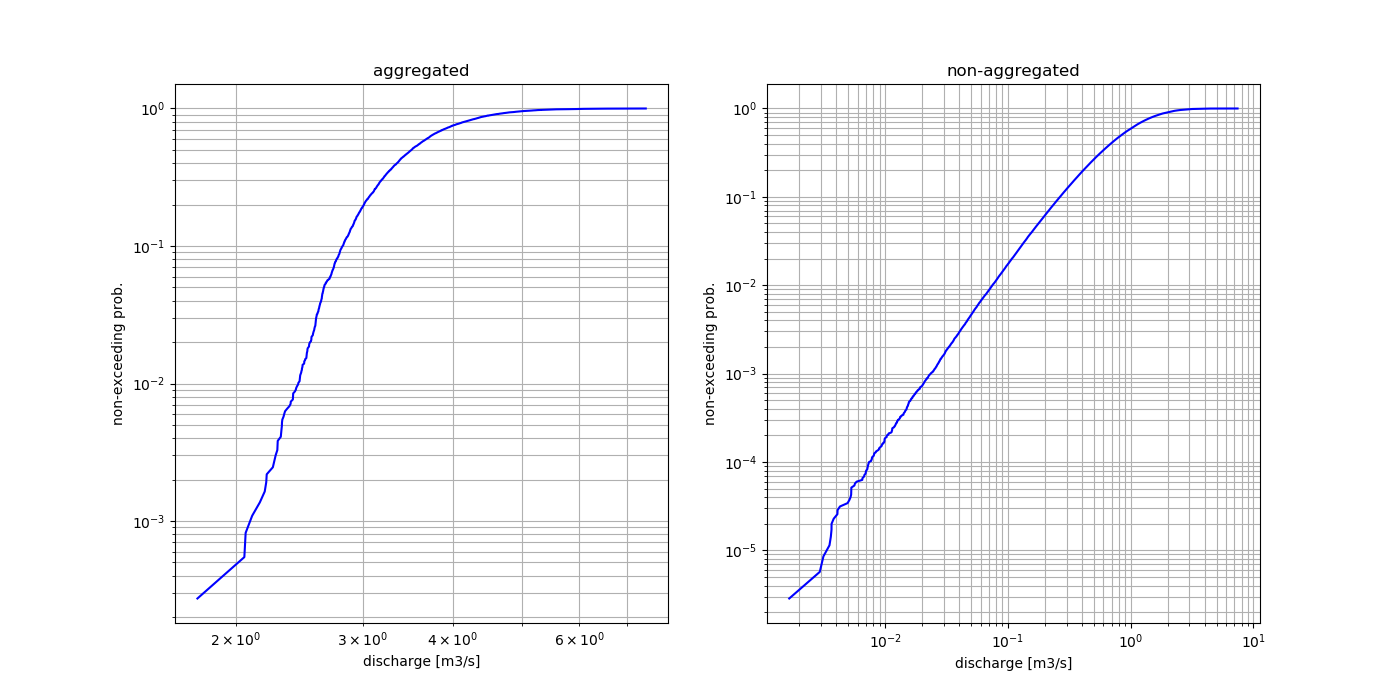
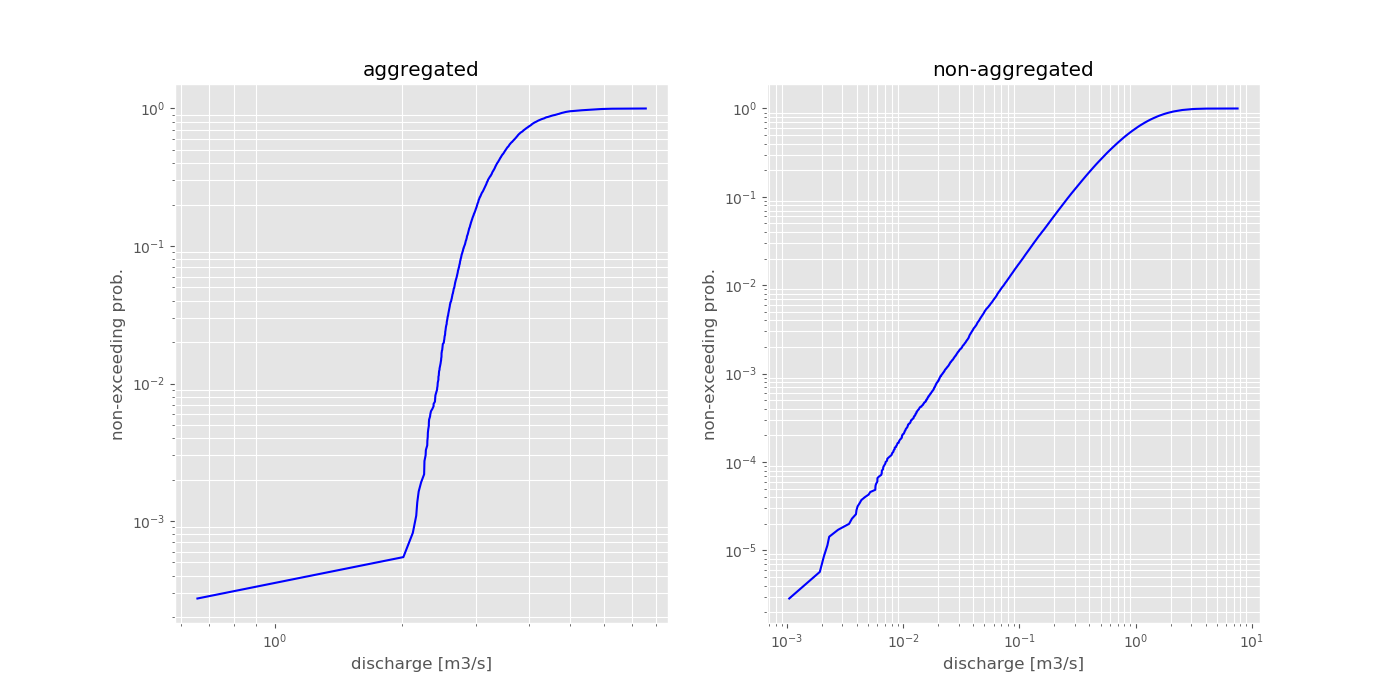
started contribution guide

diff --git a/docs/examples/discharge.rst b/docs/examples/discharge.rst
@@ -31,6 +31,9 @@ Generate the data
 
 .. ipython:: python
 
+    # use the ggplot plotting style
+    import matplotlib as mpl
+    mpl.style.use('ggplot')
     from hydrobox import toolbox
     # Step 1:
     series = toolbox.io.timeseries_from_distribution(
@@ -125,9 +128,15 @@ The workflow for the :ref:`regime function <reference_regime>` is very
 similar to the one presented in the :ref:`flow duration curve <example_fdc>`
 section.
 
-A random discharge time series will be generated and directly passed to the
-regime function. Additionally, different ways of adjusting the plot output
-will be presented.
+In this example, we will use real world data. As the hydrobox is build on top
+of numpy and pandas, we can easily use the great input tools provided by
+pandas. This example will load a discharge time series from Hofkirchen in
+Germany, gauging the Danube river. The data is provided by
+`Gewässerkundlicher Dienst Bayern`_ under a CC BY 4.0 license.
+Therefore, this example will also illustrate, how you can combine pandas and
+hydrobox to produce nice regime plots with just a few lines of code.
+
+.. _Gewässerkundlicher Dienst Bayern: https://gkd.bayern.de
 
 .. note::
 
@@ -135,23 +144,43 @@ will be presented.
     Python environment. If you are using e.g. a WPS server calling the
     tools, be sure to capture the output.
 
-Generate the data
------------------
+Load the data using pandas
+--------------------------
 
 .. ipython:: python
 
+    # some imports
     from hydrobox import toolbox
+    import pandas as pd
     # Step 1:
-    series = toolbox.io.timeseries_from_distribution(
-        distribution='gamma',
-        distribution_args=[2, 0.5],  # [location, scale]
-        start='200001010000',        # start date
-        end='201001010000',          # end date
-        freq='15min',                # temporal resolution
-        size=None,                   # set to None, for inferring
-        seed=42                      # Set a random seed
+    df = pd.read_csv('./data/discharge_hofkirchen.csv',
+        skiprows=10,            # meta data header, skip this
+        sep=';',                # the cell separator
+        decimal=',',             # german-style decimal sign
+        index_col='Datum',      # the 'date' column
+        parse_dates=[0]         # transform to DatetimeIndex
     )
+    # use only the 'Mittelwert' (mean) column
+    series = df.Mittelwert
     print(series.head())
+
+.. note::
+
+    The data was downloaded from: `Datendownload GKD`_ and is published under
+    CC BY 4.0 license. If you are not using a german OS, note that the file
+    encoding is ISO 8859-1 and you might have to remove the special german
+    signs from the header before converting to UTF-8.
+
+
+.. _Datendownload GKD: https://gkd.bayern.de/fluesse/download/index.php?thema=gkd&rubrik=fluesse&produkt=abfluss&gknr=0&msnr=10088003
+
+.. seealso::
+
+    More information on the :func:`read_csv function <pandas:pandas.read_csv>`
+     is provided in the `pandas documentation`_.
+
+
+.. _pandas documentation: https://pandas.pydata.org/pandas-docs/stable
 
 Output the regime
 -----------------
@@ -170,9 +199,6 @@ Plotting
 
 .. ipython:: python
 
-    # use the ggplot plotting style
-    import matplotlib as mpl
-    mpl.style.use('ggplot')
     @savefig examples_regime.png width=6in
     toolbox.regime(series)
 
@@ -188,6 +214,36 @@ Plotting
 
     @savefig examples_regime2.png width=6in
     toolbox.regime(series, color='#ffab7f')
+
+Using percentiles
+-----------------
+
+The plot shown above is nice, but the tool is way more powerful. Using the
+``percentiles`` keyword, we can either specify a number of percentiles or
+pass custom percentile edges.
+
+.. ipython:: python
+
+    @savefig examples_regime_percentile.png width=6in
+    toolbox.regime(series, percentiles=10);
+
+.. ipython:: python
+
+    @savefig examples_regime_percentile2.png width=6in
+    toolbox.regime(series, percentiles=[25, 75, 100], color='#223a5e');
+
+Adjusting the plot
+------------------
+
+Furthermore, the regime function can normalize the monthly aggregates to the
+overall aggregate. The function used for aggregation can also be changed. The
+following example will output monthly mean values over median values and
+normalize them to the MQ (overall mean).
+
+.. ipython:: python
+
+    @savefig examples_regime_normalize.png width=6in
+    toolbox.regime(series, agg='nanmean', normalize=True, color='#223a5e')
 
 Reference
 ---------

diff --git a/docs/contribution.rst b/docs/contribution.rst
@@ -5,10 +5,119 @@ Contribution Guide
 .. toctree::
     :maxdepth: 2
 
+.. role:: pycode(code)
+    :language: python
 
-Under Development
+How to Contribute
 =================
+
+There are several ways, how you can contribute to hydrobox. All contributions
+shall make use of the Fork / Pull request workflow in the `GitHub repository`_.
+More information on pull requests can be found on the `GitHub About pull requests`_
+page.
+
+    #. Add new tools to the toolbox
+    #. Improve / Add unittest to increase code coverage
+    #. Improve / Add docstrings on existing functions
+    #. Add more examples to the documentation
+
+.. _GitHUb repository: https://github.com/mmaelicke/hydrobox.git
+.. _GitHub About pull requests: https://help.github.com/articles/about-pull-requests
+
+
+Add Tools to the Toolbox
+------------------------
+
+.. important::
+
+    In a nutshell:
+        #. Fork the repository on GitHub
+        #. Commit your method to your fork
+        #. Add documentation and unittests for your method
+        #. Make sure your fork is building correctly
+        #. Pull request your fork back into the main repository
+
+The idea behind hydrobox is to be used on top of numpy, scipy and pandas.
+This implies usage the data types defined in these libraries whenever possible.
+The main purpose of hydrobox is to save hydrologists from reproducing their
+codes in every single project. Therefore a hydrobox tool shall:
+
+    #. combine analysis steps belonging together into one function, while
+    #. separating preprocessing from analysis
+    #. be helpful for other hydrologists
+    #. output common python, numpy or pandas datatypes
+
+
+.. important::
+
+    For this guide, we will add a function ``from_csv`` to the ``io``
+    submodule. This should illustrate how you can add your stuff.
+
+Fork and structure
+~~~~~~~~~~~~~~~~~~
+
+Once you forked the project, place a new file in the appropriate module or
+add a new one. Once your function has been added, import your function in the
+``hydrobox.toolbox`` file Please use an expressive name for your function. It
+should be clear what the
+function does. . In some cases tool functions are tool specific to
+make them available at the global ``hydrobox.toolbox`` scope. Then the
+submodule itself will be imported in the toolbox and you do not need to
+adjust the imports. One example is the ``io`` submodule.
+
+Here, we pretend to add a ``from_csv`` file to the toolbox. This function
+will go into a file ``text.py`` in the ``hydrobox.io`` submodule:
+
+.. code-block:: python
+    :linenos:
+
+    def from_csv(path, sep=','):
+        """
+        numpydoc docstring here
+        """
+        return pd.from_csv(path, sep=sep)
+
+
+Now, import this function in the ``__init__`` of ``hydrobox.io``. If your
+method shall be available in the global scope, import it in
+``hydrobox.toolbox``, as well.
+
+.. important::
+
+    Please do only use `numpydoc`_ docstring conventions and make sure to
+    properly style and comment the Parameters section.
+
+.. _numpydoc: http://numpydoc.readthedocs.io/en/latest/format.html
+
+
+Decorating your tool
+~~~~~~~~~~~~~~~~~~~~
+
+Hydrobox includes two helpful decorators in the ``hydrobox.util`` submodule:
+:pycode:`accept` and :pycode:`enforce`. We encourage you to use the
+:pycode:`accept` decorator whenever possible. This will help to produce way
+cleaner code.
+This decorator will check the input data for their data type and raise a
+:pycode:`TypeError` in case the passed data does not have the correct type.
+If more than one type is accepted, simply pass a tuple. In case a argument can
+be on :pycode:`NoneType` or a :pycode:`callable`, use the two literals
+:pycode:`'None'` and :pycode:`'callable'` and pass them as strings.
+
+.. code-block:: python
+    :linenos:
+
+    from io import TextIOWrapper
+    @accept(path=(str, TextIOWrapper), sep=str)
+    def from_csv(path, sep=','):
+        ...
+
+In this example, the :pycode:`path` argument can be a string or a file pointer,
+:pycode:`sep` has to be a string. Thus, there is no need to check the user
+input in your tool, as the decorator already did this for you.
+We encourage you to use this decorator especially for checking the input data
+to be of type :class:`numpy:numpy.ndarray` :class:`pandas:pandas.DataFrame`
+and :class:`pandas:pandas.Series`.
 
 .. warning::
 
-    This site is under construction
+    To be continued....
